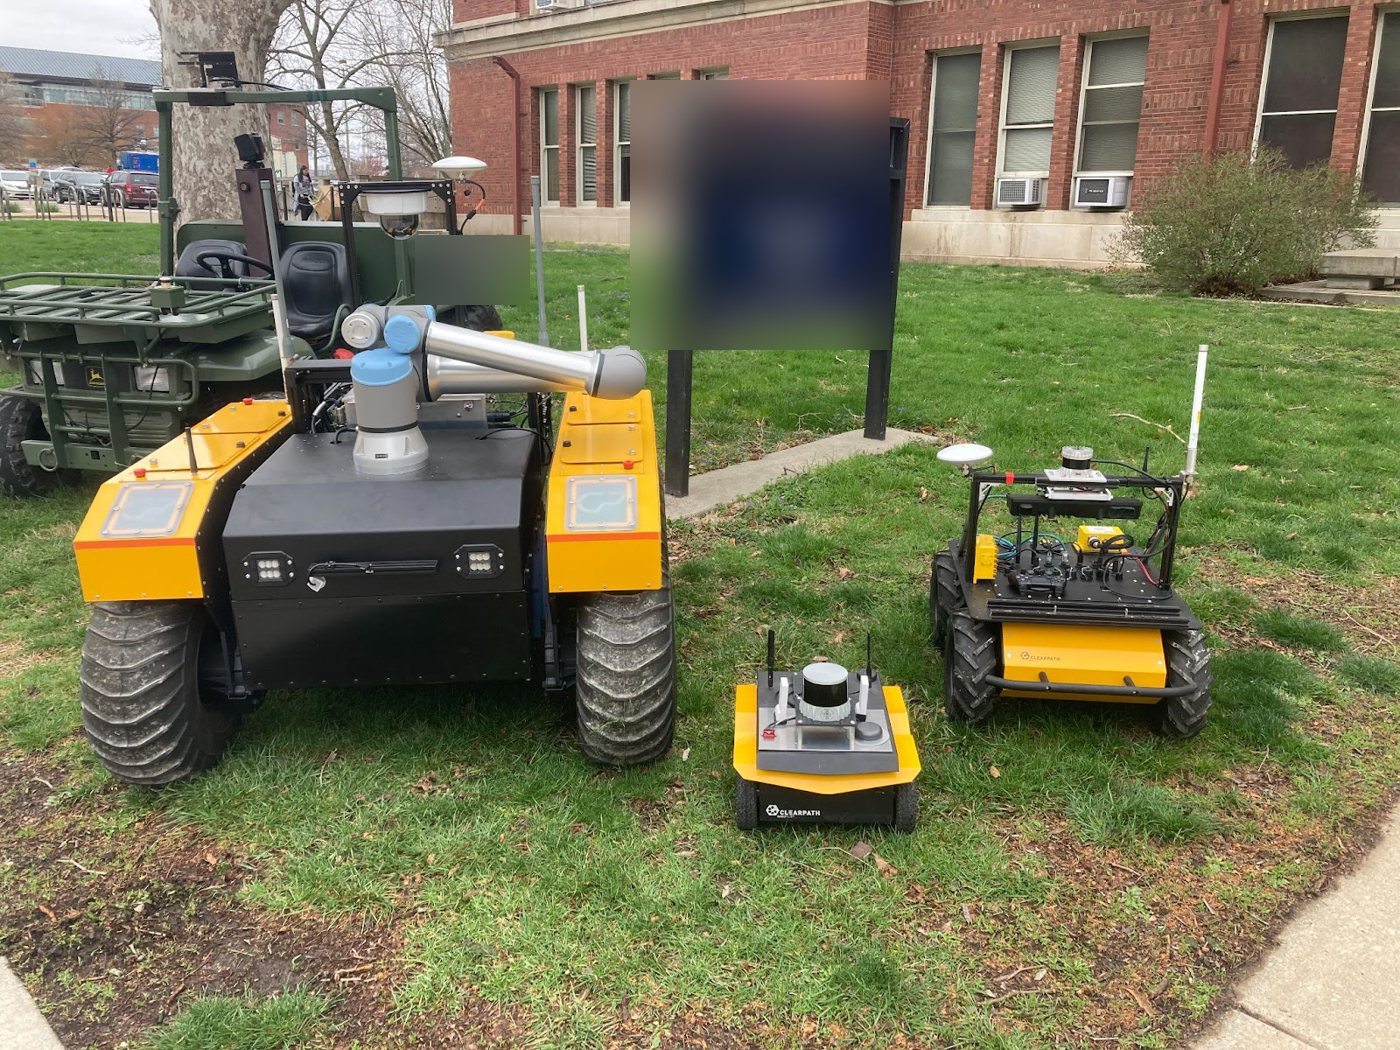
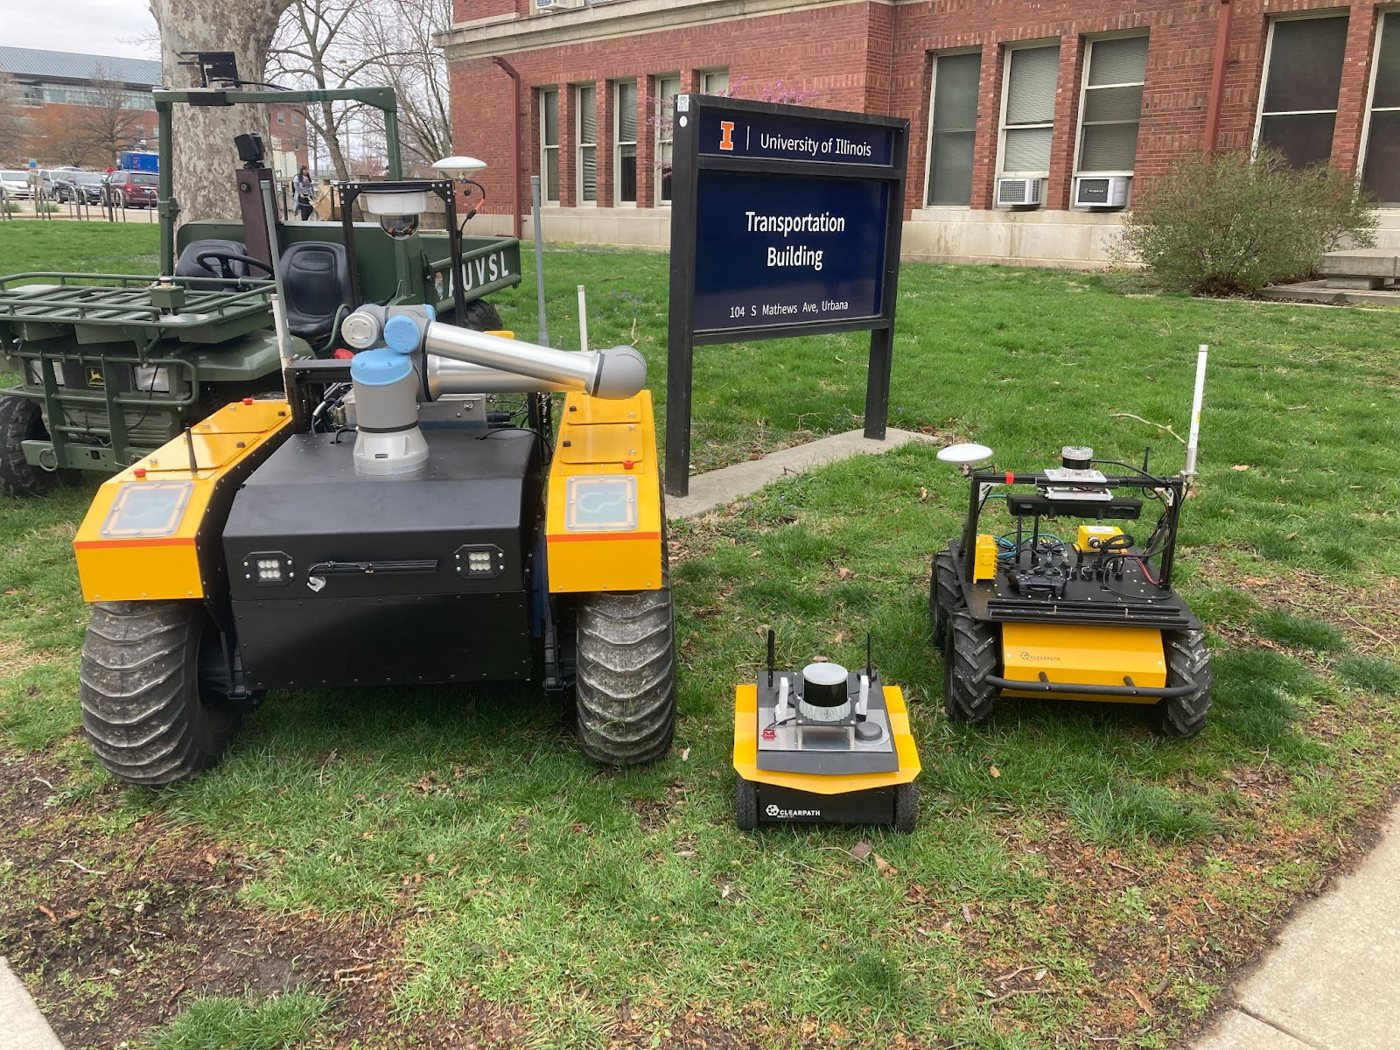
Hero: fleet photo, degree line, thesis link; larger labels; unblurred photos
- Replace the point-cloud hero background with the fleet photo and drop the tagline
- Add M.S. Mechanical Engineering (Robotics) @ UIUC and link the thesis (hdl.handle.net/2142/127459)
- Enlarge the green section labels and project links
- Regenerate platforms.jpg and rgator.jpg without blur; remove the redaction step from the figure script

Changed region(s): [[0.43, 0.061, 0.645, 0.3352], [0.2764, 0.2133, 0.3993, 0.3048]]

diff --git a/assets/css/style.css b/assets/css/style.css
@@ -46,24 +46,21 @@ code { font: 12px var(--mono); color: var(--text); background: #eef1f5; padding:
 .nav nav a:hover { color: var(--text); text-decoration: none; }
 
 /* ---------------------------------------------------------------- hero */
-.hero { position: relative; min-height: 92vh; display: flex; align-items: center; overflow: hidden; }
-.hero-canvas { position: absolute; inset: 0; }
-.hero-canvas canvas { display: block; }
-.hero::after {
-  content: ""; position: absolute; inset: 0; pointer-events: none;
-  background: linear-gradient(90deg, var(--bg) 0%, rgba(246,247,249,.9) 34%, rgba(246,247,249,0) 68%),
-              linear-gradient(0deg, var(--bg) 0%, rgba(246,247,249,0) 22%);
+.hero {
+  display: grid; grid-template-columns: minmax(0, 1fr) minmax(0, 1.1fr); align-items: center; gap: clamp(24px, 4vw, 60px);
+  max-width: 1320px; margin: 0 auto; min-height: 88vh; padding: 110px clamp(16px, 5vw, 72px) 60px;
 }
-.hero-text { position: relative; z-index: 2; max-width: 660px; padding: 120px clamp(16px, 6vw, 96px) 70px; pointer-events: none; }
-.hero-text .cta, .hero-text a { pointer-events: auto; }
-.eyebrow { color: var(--accent); font-size: 14px; margin: 0 0 14px; }
-.hero h1 { font-size: clamp(44px, 8vw, 80px); font-weight: 700; }
-.role { font-size: clamp(17px, 2vw, 20px); font-weight: 600; color: var(--text); margin: 10px 0 0; }
+.hero h1 { font-size: clamp(44px, 6.4vw, 76px); font-weight: 700; }
+.role { font-size: clamp(18px, 2vw, 21px); font-weight: 600; color: var(--text); margin: 12px 0 0; }
+.degree { font-size: clamp(15px, 1.5vw, 17px); font-weight: 500; color: var(--body); margin: 4px 0 0; }
+.hero-photo { margin: 0; }
+.hero-photo img { width: 100%; height: auto; display: block; border-radius: 18px; border: 1px solid var(--line);
+  box-shadow: 0 8px 32px rgba(16, 24, 40, .12); }
+.hero-photo figcaption { margin-top: 10px; font-size: 13px; color: var(--dim); }
 .now { display: inline-flex; align-items: center; gap: 8px; margin: 12px 0 0; padding: 5px 12px; border-radius: 999px;
   background: var(--accent-soft); color: var(--text); font-size: 14px; }
 .now .dot { width: 8px; height: 8px; border-radius: 50%; background: var(--accent); flex: none; }
 .lede { font-size: clamp(16px, 1.8vw, 19px); color: var(--body); margin: 14px 0 26px; }
-.hint { font-size: 12px; color: var(--dim); margin-top: 26px; }
 
 .cta { display: flex; flex-wrap: wrap; gap: 10px; }
 .btn {
@@ -93,7 +90,8 @@ code { font: 12px var(--mono); color: var(--text); background: #eef1f5; padding:
 /* ---------------------------------------------------------------- projects */
 .project { scroll-margin-top: 20px; padding: 100px clamp(16px, 5vw, 72px) 20px; max-width: 1320px; margin: 0 auto; }
 .project-head { max-width: 840px; margin-bottom: 28px; }
-.tag { color: var(--accent); font-size: 13px; margin: 0 0 10px; }
+.tag { color: var(--accent); font-size: 16px; font-weight: 500; margin: 0 0 10px; }
+.thesis-link { font-weight: 600; font-size: 16px; }
 .project h2 { font-size: clamp(28px, 4vw, 40px); }
 .summary { color: var(--body); font-size: 17px; margin: 16px 0 0; }
 .summary b { color: var(--text); }
@@ -217,7 +215,7 @@ a.proj-card:hover .proj-thumb img { transform: scale(1.03); }
 .proj-body p { margin: 0; color: var(--body); font-size: 14.5px; }
 .proj-tags { display: flex; flex-wrap: wrap; gap: 6px; }
 .proj-tags .chip { font-size: 11px; padding: 3px 9px; }
-.proj-cta { margin-top: auto; font: 600 14px Inter, sans-serif; color: var(--accent); }
+.proj-cta { margin-top: auto; font: 600 16px Inter, sans-serif; color: var(--accent); }
 .proj-cta.muted { color: var(--dim); font-weight: 500; }
 .crumb { max-width: 1320px; margin: 0 auto; padding: 84px clamp(16px, 5vw, 72px) 0; font-size: 14px; }
 .crumb + .project { padding-top: 28px; }
@@ -243,7 +241,8 @@ a.proj-card:hover .proj-thumb img { transform: scale(1.03); }
 /* ---------------------------------------------------------------- responsive */
 @media (max-width: 980px) {
   .demo-grid, .demo-grid.wide-left, .demo-grid.even, .cone-grid { grid-template-columns: 1fr; }
-  .cols3, .about-card { grid-template-columns: 1fr; }
+  .cols3, .about-card, .hero { grid-template-columns: 1fr; }
+  .hero { min-height: 0; padding-bottom: 40px; }
   .figs, .figs.four, .proj-grid { grid-template-columns: repeat(2, 1fr); }
   .results { grid-template-columns: repeat(2, 1fr); }
   .controls.inline { grid-template-columns: repeat(2, 1fr); }
@@ -251,8 +250,7 @@ a.proj-card:hover .proj-thumb img { transform: scale(1.03); }
 }
 @media (max-width: 720px) {
   .nav nav { display: none; }
-  .hero::after { background: linear-gradient(0deg, var(--bg) 12%, rgba(246,247,249,.85) 60%, rgba(246,247,249,.55) 100%); }
-  .hero-text { padding-top: 90px; }
+  .hero { padding-top: 90px; }
   .figs, .figs.four, .figs.two, .proj-grid { grid-template-columns: 1fr; }
   .viewer, .viewer.tall { min-height: 340px; }
   .project { padding-top: 76px; }

diff --git a/index.html b/index.html
@@ -12,7 +12,7 @@
   <link rel="preconnect" href="https://fonts.googleapis.com">
   <link rel="preconnect" href="https://fonts.gstatic.com" crossorigin>
   <link href="https://fonts.googleapis.com/css2?family=Inter:wght@400;500;600;700&family=JetBrains+Mono:wght@400;500;600&display=swap" rel="stylesheet">
-  <link rel="stylesheet" href="assets/css/style.css?v=8">
+  <link rel="stylesheet" href="assets/css/style.css?v=9">
   <script type="importmap">
   { "imports": {
       "three": "https://cdn.jsdelivr.net/npm/three@0.160.0/build/three.module.js",
@@ -27,39 +27,45 @@
       <a href="#projects">Projects</a>
       <a href="negative-obstacles.html">Negative obstacles</a>
       <a href="ground-segmentation.html">Ground segmentation</a>
+      <a href="https://hdl.handle.net/2142/127459" target="_blank" rel="noopener">Thesis</a>
       <a href="mailto:wcheng466@gmail.com">Contact</a>
     </nav>
   </header>
 
   <!-- ============================================================ HERO -->
   <section class="hero" id="top">
-    <div class="hero-canvas" id="hero-view" aria-hidden="true"></div>
     <div class="hero-text">
-      <p class="eyebrow mono">// perception &amp; mapping for unmanned ground vehicles</p>
       <h1>Weihao Cheng</h1>
-      <p class="role">Robotics perception engineer · Embodied AI · M.S. Mechanical Engineering</p>
-      <p class="now"><span class="dot" aria-hidden="true"></span>Currently <b>AI Engineer / Scientist</b> at <b>Honeywell Aerospace</b></p>
+      <p class="role">Robotics perception engineer · Embodied AI</p>
+      <p class="degree">M.S. Mechanical Engineering (Robotics) @ University of Illinois Urbana-Champaign</p>
+      <p class="now"><span class="dot" aria-hidden="true"></span><span>Currently <b>AI Engineer / Scientist</b> at <b>Honeywell Aerospace</b></span></p>
       <p class="lede">I work on perception and AI for autonomous systems. In my graduate research I built LiDAR perception
         for off-road vehicles: registering scans, segmenting ground, mapping terrain, and finding the trenches and pits a
         robot should never drive into.</p>
       <div class="cta">
         <a class="btn primary" href="#projects">See projects ↓</a>
+        <a class="btn" href="https://hdl.handle.net/2142/127459" target="_blank" rel="noopener">M.S. thesis ↗</a>
         <a class="btn" href="mailto:wcheng466@gmail.com">Email</a>
         <a class="btn" href="https://www.linkedin.com/" target="_blank" rel="noopener" data-todo="linkedin">LinkedIn</a>
       </div>
-      <p class="hint mono">Background: one raw Ouster OS1-128 scan from the R-Gator — drag to orbit.</p>
     </div>
+    <figure class="hero-photo">
+      <img src="assets/img/project/platforms.jpg" width="1400" height="1050"
+        alt="Four autonomous ground robots on a lawn at the University of Illinois: a John Deere R-Gator, a Clearpath Warthog with a robot arm, a Jackal and a Husky">
+      <figcaption class="mono">The fleet I worked on: R-Gator · Warthog · Jackal · Husky</figcaption>
+    </figure>
   </section>
 
   <!-- ============================================================ ABOUT -->
   <section class="about">
     <div class="about-card">
       <div>
-        <p class="tag mono">Graduate research project · 2024</p>
+        <p class="tag mono">M.S. thesis · University of Illinois Urbana-Champaign · 2024</p>
         <h2>Perception and Mapping for Unmanned Ground Vehicles in Unstructured Environments</h2>
         <p>Graduate research supported by the US Army Construction Engineering Research Laboratory (CERL):
           ground segmentation, long-range deep negative-obstacle detection, and multi-modal traversability mapping,
           tested on four autonomous platforms. Everything below runs on the data I collected.</p>
+        <p><a class="thesis-link" href="https://hdl.handle.net/2142/127459" target="_blank" rel="noopener">Read the full thesis (PDF, via IDEALS) →</a></p>
       </div>
       <div class="facts">
         <div class="fact"><b>8.5 m</b>detection range for a 0.7 m-wide pit (vs ~3 m before)</div>
@@ -124,6 +130,6 @@
   </footer>
 
   <div class="lightbox" id="lightbox" hidden><img alt=""><p></p></div>
-  <script type="module" src="assets/js/main.js?v=8"></script>
+  <script type="module" src="assets/js/main.js?v=9"></script>
 </body>
 </html>

diff --git a/negative-obstacles.html b/negative-obstacles.html
@@ -12,7 +12,7 @@
   <link rel="preconnect" href="https://fonts.googleapis.com">
   <link rel="preconnect" href="https://fonts.gstatic.com" crossorigin>
   <link href="https://fonts.googleapis.com/css2?family=Inter:wght@400;500;600;700&family=JetBrains+Mono:wght@400;500;600&display=swap" rel="stylesheet">
-  <link rel="stylesheet" href="assets/css/style.css?v=8">
+  <link rel="stylesheet" href="assets/css/style.css?v=9">
   <script type="importmap">
   { "imports": {
       "three": "https://cdn.jsdelivr.net/npm/three@0.160.0/build/three.module.js",
@@ -284,6 +284,6 @@ doi: 10.5281/zenodo.24123084</pre>
   </footer>
 
   <div class="lightbox" id="lightbox" hidden><img alt=""><p></p></div>
-  <script type="module" src="assets/js/main.js?v=8"></script>
+  <script type="module" src="assets/js/main.js?v=9"></script>
 </body>
 </html>

diff --git a/ground-segmentation.html b/ground-segmentation.html
@@ -12,7 +12,7 @@
   <link rel="preconnect" href="https://fonts.googleapis.com">
   <link rel="preconnect" href="https://fonts.gstatic.com" crossorigin>
   <link href="https://fonts.googleapis.com/css2?family=Inter:wght@400;500;600;700&family=JetBrains+Mono:wght@400;500;600&display=swap" rel="stylesheet">
-  <link rel="stylesheet" href="assets/css/style.css?v=8">
+  <link rel="stylesheet" href="assets/css/style.css?v=9">
   <script type="importmap">
   { "imports": {
       "three": "https://cdn.jsdelivr.net/npm/three@0.160.0/build/three.module.js",
@@ -149,6 +149,6 @@
   </footer>
 
   <div class="lightbox" id="lightbox" hidden><img alt=""><p></p></div>
-  <script type="module" src="assets/js/main.js?v=8"></script>
+  <script type="module" src="assets/js/main.js?v=9"></script>
 </body>
 </html>

diff --git a/pothole-detection.html b/pothole-detection.html
@@ -12,7 +12,7 @@
   <link rel="preconnect" href="https://fonts.googleapis.com">
   <link rel="preconnect" href="https://fonts.gstatic.com" crossorigin>
   <link href="https://fonts.googleapis.com/css2?family=Inter:wght@400;500;600;700&family=JetBrains+Mono:wght@400;500;600&display=swap" rel="stylesheet">
-  <link rel="stylesheet" href="assets/css/style.css?v=8">
+  <link rel="stylesheet" href="assets/css/style.css?v=9">
   <script type="importmap">
   { "imports": {
       "three": "https://cdn.jsdelivr.net/npm/three@0.160.0/build/three.module.js",
@@ -65,6 +65,6 @@
   </footer>
 
   <div class="lightbox" id="lightbox" hidden><img alt=""><p></p></div>
-  <script type="module" src="assets/js/main.js?v=8"></script>
+  <script type="module" src="assets/js/main.js?v=9"></script>
 </body>
 </html>

diff --git a/sensing-stack.html b/sensing-stack.html
@@ -12,7 +12,7 @@
   <link rel="preconnect" href="https://fonts.googleapis.com">
   <link rel="preconnect" href="https://fonts.gstatic.com" crossorigin>
   <link href="https://fonts.googleapis.com/css2?family=Inter:wght@400;500;600;700&family=JetBrains+Mono:wght@400;500;600&display=swap" rel="stylesheet">
-  <link rel="stylesheet" href="assets/css/style.css?v=8">
+  <link rel="stylesheet" href="assets/css/style.css?v=9">
   <script type="importmap">
   { "imports": {
       "three": "https://cdn.jsdelivr.net/npm/three@0.160.0/build/three.module.js",
@@ -83,6 +83,6 @@
   </footer>
 
   <div class="lightbox" id="lightbox" hidden><img alt=""><p></p></div>
-  <script type="module" src="assets/js/main.js?v=8"></script>
+  <script type="module" src="assets/js/main.js?v=9"></script>
 </body>
 </html>

diff --git a/terrain-mapping.html b/terrain-mapping.html
@@ -12,7 +12,7 @@
   <link rel="preconnect" href="https://fonts.googleapis.com">
   <link rel="preconnect" href="https://fonts.gstatic.com" crossorigin>
   <link href="https://fonts.googleapis.com/css2?family=Inter:wght@400;500;600;700&family=JetBrains+Mono:wght@400;500;600&display=swap" rel="stylesheet">
-  <link rel="stylesheet" href="assets/css/style.css?v=8">
+  <link rel="stylesheet" href="assets/css/style.css?v=9">
   <script type="importmap">
   { "imports": {
       "three": "https://cdn.jsdelivr.net/npm/three@0.160.0/build/three.module.js",
@@ -84,6 +84,6 @@
   </footer>
 
   <div class="lightbox" id="lightbox" hidden><img alt=""><p></p></div>
-  <script type="module" src="assets/js/main.js?v=8"></script>
+  <script type="module" src="assets/js/main.js?v=9"></script>
 </body>
 </html>

diff --git a/ugv-platform.html b/ugv-platform.html
@@ -12,7 +12,7 @@
   <link rel="preconnect" href="https://fonts.googleapis.com">
   <link rel="preconnect" href="https://fonts.gstatic.com" crossorigin>
   <link href="https://fonts.googleapis.com/css2?family=Inter:wght@400;500;600;700&family=JetBrains+Mono:wght@400;500;600&display=swap" rel="stylesheet">
-  <link rel="stylesheet" href="assets/css/style.css?v=8">
+  <link rel="stylesheet" href="assets/css/style.css?v=9">
   <script type="importmap">
   { "imports": {
       "three": "https://cdn.jsdelivr.net/npm/three@0.160.0/build/three.module.js",
@@ -68,6 +68,6 @@
   </footer>
 
   <div class="lightbox" id="lightbox" hidden><img alt=""><p></p></div>
-  <script type="module" src="assets/js/main.js?v=8"></script>
+  <script type="module" src="assets/js/main.js?v=9"></script>
 </body>
 </html>

diff --git a/tools/build_project_figs.py b/tools/build_project_figs.py
@@ -1,9 +1,8 @@
 """Extracts selected figures from the project report PDF into assets/img/project (needs PyMuPDF + Pillow).
-Usage: python tools/build_project_figs.py <report.pdf>
-Location-identifying signage/logos are blurred (REDACT boxes, in output-pixel coordinates)."""
+Usage: python tools/build_project_figs.py <report.pdf>"""
 import io, os
 import fitz
-from PIL import Image, ImageFilter
+from PIL import Image
 
 import sys
 PDF = sys.argv[1]
@@ -19,12 +18,6 @@ PICKS = {
     (62, 0): "elevation_jackal", (63, 0): "voxel_rgator", (64, 0): "multilayer_map", (65, 0): "elevation_husky",
     (59, 0): "costmap_1", (59, 1): "costmap_2", (59, 2): "costmap_3",
 }
-REDACT = {
-    "platforms": [(630, 80, 890, 350),           # building sign with institution name + address
-                  (415, 235, 530, 305)],         # lab lettering on the R-Gator bed
-    "rgator": [(545, 165, 635, 245),             # institution logo + sticker on the sensor housing
-               (990, 490, 1180, 585)],           # lab lettering on the bed
-}
 doc = fitz.open(PDF)
 for (page, k), name in PICKS.items():
     xref = doc[page - 1].get_images(full=True)[k][0]
@@ -33,7 +26,5 @@ for (page, k), name in PICKS.items():
         pix = fitz.Pixmap(fitz.csRGB, pix)
     im = Image.open(io.BytesIO(pix.tobytes("png"))).convert("RGB")
     im.thumbnail((1400, 1100))
-    for box in REDACT.get(name, []):
-        im.paste(im.crop(box).filter(ImageFilter.GaussianBlur(22)), box[:2])
     im.save(os.path.join(DST, name + ".jpg"), quality=84)
     print(name, im.size)

diff --git a/README.md b/README.md
@@ -37,7 +37,7 @@ Open http://localhost:8000. A local server is needed because the page fetches bi
 ## Personalise
 
 - `assets/js/main.js` → `CONFIG`: add your LinkedIn URL. An empty value hides the button.
-- `index.html`: hero tagline; add a GitHub button to your own profile if you want one.
+- `index.html`: hero text and photo; add a GitHub button to your own profile if you want one.
 
 ## Rebuilding the demo data
 
